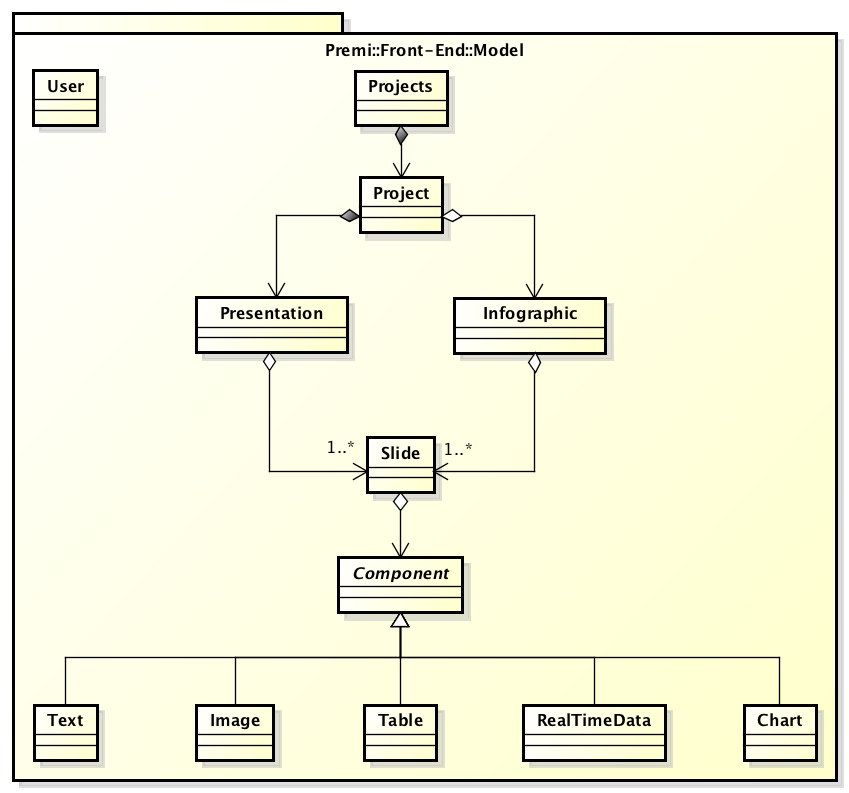
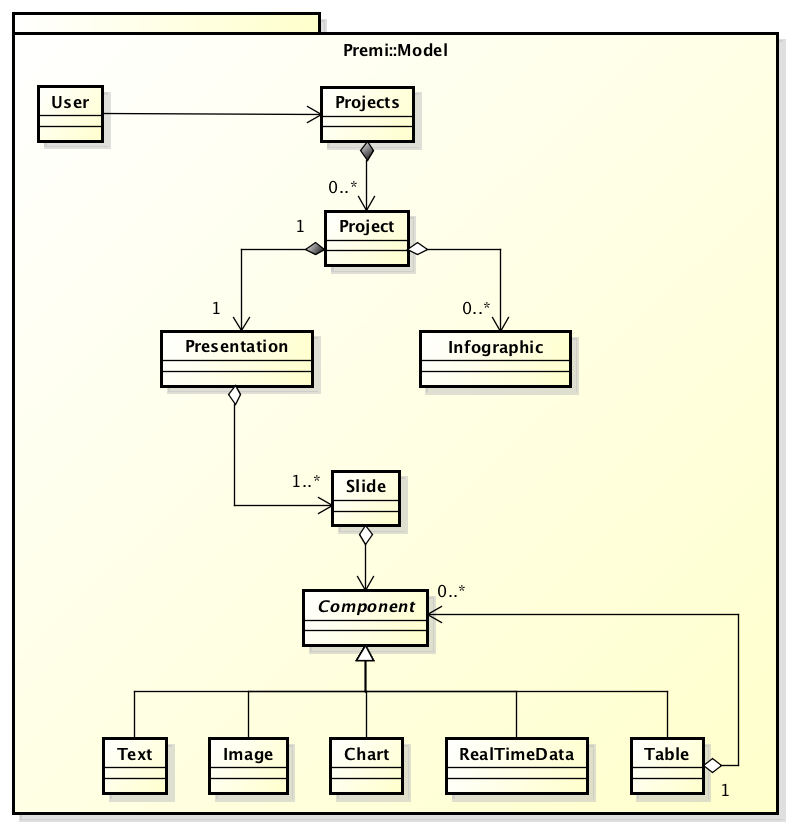
corretta parte frontend

Changed region(s): [[0.0, 0.0303, 1.0, 0.9987]]

diff --git a/esterni/specifica_tecnica/section/front_end_scope.tex b/esterni/specifica_tecnica/section/front_end_scope.tex
@@ -1,134 +1,33 @@
 In AngularJS la variabile \$scope è utilizzata per indicare il contesto in cui vengono salvati i dati di un’applicazione (il model) ed in cui vengono valutate le espressioni utilizzate nella view.
 Per la natura di AngularJS, in cui esiste una stretta correlazione fra view e model, ogni elemento di una view è associato ad un oggetto di scope .
 Sono qui di seguito riportati i principali esempi di oggetti di \$scope.
+
+\paragraph{Variabili di \$scope globali (\$rootScope)}
 \begin{itemize}
+\item \textbf{\$scope.currentProject:}
+\begin{itemize}
+	\item Variabile che contiene le informazioni relative al progetto corrente (idProgetto, idPresentazione, idPrimaSlide).
+\end{itemize}
 
-%     \item \textbf{\$scope.addImage(\textit{path}):}
-%     \begin{itemize}
-%     	\item Funzione con il compito di aggiungere in una posizione di default del canvas un'immagine raggiungibile mediante il percorso "\textit{path}" passato per argomento.
-%     \end{itemize}
-%     
-%     \item \textbf{\$scope.addText(\textit{text}):}
-%     \begin{itemize}
-%     	\item Funzione con il compito di aggiungere in una posizione di default del canvas un oggetto di tipo testuale inizializzato con il valore "\textit{text}" passato per argomento.
-%     \end{itemize}
-%     
-%     \item \textbf{\$scope.availableFonts:}
-%     \begin{itemize}
-%     	\item Variabile che contiene una lista di tutte le tipologie di carattere utilizzabili per gli oggetti di tipo testuale.
-%     \end{itemize}
-%    
-%    \item \textbf{\$scope.canvas:}
-%	\begin{itemize}
-%	      \item Variabile che contiene l'oggetto dalla libreria fabric.js per la gestione di un canvas interattivo.
-%	\end{itemize}
-%	
-%    \item \textbf{\$scope.components:}
-%	\begin{itemize}
-%	      \item Variabile che contiene una lista di tutte le tipologie di oggetti che possono essere inseriti nelle slide.
-%	\end{itemize}
-%	
-%	\item \textbf{\$scope.objectSelected:}
-%	\begin{itemize}
-%		\item Variabile che contiene l'oggetto selezionato all'interno della slide in modalità editor presentazioni. Può assumere il valore  "\textit{group}" per permettere la selezione multipla. 
-%	\end{itemize}
-%	
-%    \item \textbf{\$scope.slidesSVG:}
-%	\begin{itemize}
-%	      \item Variabile che contiene le slides della presentazione in formato SVG, ognuna con le rispettive coordinate x e y.
-%	\end{itemize}
-%	
-%    \item \textbf{\$scope.slidesList:}
-%	\begin{itemize}
-%	      \item Variabile che contiene la lista delle slides di una infografica in modalità editor.\footnote{Un'infografica è costruita a partire da un template.}.
-%	\end{itemize}
-%	
-%    \item \textbf{\$scope.template:}
-%	\begin{itemize}
-%	      \item Variabile che contiene le informazioni di un template di una infografica. La dimesione di un template appartiene ai formati di carta internazionale  epuò accogliere una lista di slide stabilendo i punti in cui andranno a posizionarsi.
-%	\end{itemize}
-%	
-%	\item \textbf{\$scope.toggleBold(\textit{obj}):}
-%	\begin{itemize}
-%		\item Funzione con il compito di impostare la proprietà "grassetto" dell'oggetto "\textit{obj}" passato per argomento.
-%	\end{itemize}
-%	
-%	\item \textbf{\$scope.togglItalic(\textit{obj}):}
-%	\begin{itemize}
-%		\item Funzione con il compito di impostare la proprietà "corsivo" dell'oggetto "\textit{obj}" passato per argomento.
-%	\end{itemize}
-%	
-%	\item \textbf{\$scope.toggleUnderlined(\textit{obj}):}
-%	\begin{itemize}
-%		\item Funzione con il compito di impostare la proprietà "sottolineato" dell'oggetto "\textit{obj}" passato per argomento.
-%	\end{itemize}
-%	
-%	\item \textbf{\$scope.update():}
-%	\begin{itemize}
-%		\item Funzione con il compito di aggiornare il canvas a seguito di un cambiamento nel model.
-%	\end{itemize}
-%	
-%	\item \textbf{\$scope.updateColor(\textit{path}):}
-%	\begin{itemize}
-%		\item Funzione con il compito di aggiornare nel canvas il colore dell'oggetto testuale selezionato a seguito di un aggiornamento del model.
-%	\end{itemize}
+\item \textbf{\$scope.currentSlide:}
+\begin{itemize}
+	\item Variabile che contiene l'id della slide corrente che si sta modificando.
+\end{itemize}
+
+\item \textbf{\$scope.searchViewVisibility:}
+\begin{itemize}
+	\item Variabile che contiene true o false a seconda se è visualizzata la schermata con i risultati di ricerca, oppure no.
+\end{itemize}
+
+\item \textbf{\$scope.user:}
+\begin{itemize}
+	\item Variabile che contiene lo username dell'utente che sta utilizzando il sistema.
+\end{itemize}
+\end{itemize}
 
 
-	\item \textbf{\$scope.addSlide():}
-	\begin{itemize}
-		\item Variabile che contiene la funzione per aggiungere una nuova slide alla presentazione.
-	\end{itemize}
-	
-	\item \textbf{\$scope.changeSlide():}
-	\begin{itemize}
-		\item Variabile che contiene la funzione per spostarsi tra una slide e l'altra.
-	\end{itemize}
-	
-	\item \textbf{\$scope.currentProject:}
-	\begin{itemize}
-		\item Variabile che contiene le informazioni relative al progetto corrente (idProgetto, idPresentazione, idPrimaSlide).
-	\end{itemize}
-	
-	\item \textbf{\$scope.currentSlide:}
-	\begin{itemize}
-		\item Variabile che contiene l'id della slide corrente che si sta modificando.
-	\end{itemize}
-	
-	\item \textbf{\$scope.deleteProject():}
-	\begin{itemize}
-		\item Variabile che contiene la funzione per eliminare un progetto.
-	\end{itemize}
-	
-	\item \textbf{\$scope.deleteSlide():}
-	\begin{itemize}
-		\item Variabile che contiene la funzione per cancellare la slide corrente.
-	\end{itemize}
-	
-	\item \textbf{\$scope.editProject():}
-	\begin{itemize}
-		\item Variabile che contiene la funzione per aprire l'editor del progetto.
-	\end{itemize}
-	
-	\item \textbf{\$scope.findProjectById():}
-	\begin{itemize}
-		\item Variabile che contiene la funzione per caricare il progetto tramite il suo id.
-	\end{itemize}
-	
-	\item \textbf{\$scope.getIdSlide():}
-	\begin{itemize}
-		\item Variabile che contiene la funzione per recuperare l'id della slide dalle coordinate x e y.
-	\end{itemize}
-	
-	\item \textbf{\$scope.home:}
-	\begin{itemize}
-		\item Variabile che contiene true o false a seconda se è visualizzata la schermata home, oppure no.
-	\end{itemize}
-	
-	\item \textbf{\$scope.loadSlide():}
-	\begin{itemize}
-		\item Variabile che contiene la funzione per caricare la slide dal backend attraverso il suo id.
-	\end{itemize}
-	
+\paragraph{Variabili di \$scope di AuthenticationCtrl}
+\begin{itemize}
 	\item \textbf{\$scope.login():}
 	\begin{itemize}
 		\item Variabile che contiene la funzione per permettere il login di un utente.
@@ -139,64 +38,118 @@ Sono qui di seguito riportati i principali esempi di oggetti di \$scope.
 		\item Variabile che contiene la funzione per permettere il logout di un utente.
 	\end{itemize}
 	
-	\item \textbf{\$scope.newProject():}
-	\begin{itemize}
-		\item Variabile che contiene la funzione per creare un nuovo progetto.
-	\end{itemize}
-
-	\item \textbf{\$scope.refreshProjects():}
-	\begin{itemize}
-		\item Variabile che contiene la funzione per caricare i dati principali dei progetti salvati di un utente.
-	\end{itemize}
-	
 	\item \textbf{\$scope.resetPassword():}
 	\begin{itemize}
 		\item Variabile che contiene la funzione per fare il reset della password di accesso.
-	\end{itemize}
-	
-	\item \textbf{\$scope.restrictedArea:}
-	\begin{itemize}
-		\item Variabile che contiene la pagina dell'area riservata correntemente attiva.
-	\end{itemize}
-	
-	\item \textbf{\$scope.saveSlide():}
-	\begin{itemize}
-		\item Variabile che contiene la funzione per creare una slide vuota e salvarla nel backend.
-	\end{itemize}
-	
-	\item \textbf{\$scope.searc():}
-	\begin{itemize}
-		\item Variabile che contiene la funzione per la ricerca di un utente o di un progetto.
-	\end{itemize}
-	
-	\item \textbf{\$scope.searchViewVisibility:}
-	\begin{itemize}
-		\item Variabile che contiene true o false a seconda se è visualizzata la schermata con i risultati di ricerca, oppure no.
-	\end{itemize}
-	
-	\item \textbf{\$scope.setCurrentProject():}
-	\begin{itemize}
-		\item Variabile che contiene la funzione per impostare il progetto corrente, con tutte le sue informazioni.
 	\end{itemize}
 	
 	\item \textbf{\$scope.signIn():}
 	\begin{itemize}
 		\item Variabile che contiene la funzione per permettere la registrazione di un utente.
 	\end{itemize}
+\end{itemize}
+
+
+\paragraph{Variabili di \$scope di HomePage}
+\begin{itemize}
+	\item \textbf{\$scope.findProjectById():}
+	\begin{itemize}
+		\item Variabile che contiene la funzione per caricare il progetto tramite il suo id.
+	\end{itemize}
 	
+	\item \textbf{\$scope.home:}
+	\begin{itemize}
+		\item Variabile che contiene true o false a seconda se è visualizzata la schermata home, oppure no.
+	\end{itemize}
+	
+	\item \textbf{\$scope.search():}
+	\begin{itemize}
+		\item Variabile che contiene la funzione per la ricerca di un utente o di un progetto.
+	\end{itemize}
+\end{itemize}
+
+
+\paragraph{Variabili di \$scope di MyAccountCtrl}
+\begin{itemize}
+	\item \textbf{\$scope.restrictedArea:}
+	\begin{itemize}
+		\item Variabile che contiene la pagina dell'area riservata correntemente attiva.
+	\end{itemize}
+\end{itemize}
+
+
+\paragraph{Variabili di \$scope di PresentationCtrl}
+\begin{itemize}
+	\item \textbf{\$scope.addSlide():}
+	\begin{itemize}
+		\item Variabile che contiene la funzione per aggiungere una nuova slide alla presentazione.
+	\end{itemize}
+	
+	\item \textbf{\$scope.changeSlide():}
+	\begin{itemize}
+		\item Variabile che contiene la funzione per spostarsi tra una slide e l'altra.
+	\end{itemize}
+	
+	\item \textbf{\$scope.deleteSlide():}
+	\begin{itemize}
+		\item Variabile che contiene la funzione per cancellare la slide corrente.
+	\end{itemize}
+	
+	\item \textbf{\$scope.getIdSlide():}
+	\begin{itemize}
+		\item Variabile che contiene la funzione per recuperare l'id della slide dalle coordinate x e y.
+	\end{itemize}
+	
+	\item \textbf{\$scope.loadSlide():}
+	\begin{itemize}
+		\item Variabile che contiene la funzione per caricare la slide dal backend attraverso il suo id.
+	\end{itemize}
+		
+	\item \textbf{\$scope.saveSlide():}
+	\begin{itemize}
+		\item Variabile che contiene la funzione per creare una slide vuota e salvarla nel backend.
+	\end{itemize}
+\end{itemize}
+
+
+\paragraph{Variabili di \$scope di ProjectsCtrl}
+\begin{itemize}
+	\item \textbf{\$scope.deleteProject():}
+	\begin{itemize}
+		\item Variabile che contiene la funzione per eliminare un progetto.
+	\end{itemize}
+
+	\item \textbf{\$scope.editProject():}
+	\begin{itemize}
+		\item Variabile che contiene la funzione per aprire l'editor del progetto.
+	\end{itemize}
+	
+	\item \textbf{\$scope.newProject():}
+	\begin{itemize}
+		\item Variabile che contiene la funzione per creare un nuovo progetto.
+	\end{itemize}
+	
+	\item \textbf{\$scope.refreshProjects():}
+	\begin{itemize}
+		\item Variabile che contiene la funzione per caricare i dati principali dei progetti salvati di un utente.
+	\end{itemize}
+	
+	\item \textbf{\$scope.setCurrentProject():}
+	\begin{itemize}
+		\item Variabile che contiene la funzione per impostare il progetto corrente, con tutte le sue informazioni.
+	\end{itemize}
+\end{itemize}
+
+
+\paragraph{Variabili di \$scope di SlideEditorCtrl}
+\begin{itemize}
 	\item \textbf{\$scope.updateSlide():}
 	\begin{itemize}
 		\item Variabile che contiene la funzione per salvare una slide modificata nel backend.
-	\end{itemize}
-	
-	\item \textbf{\$scope.user:}
-	\begin{itemize}
-		\item Variabile che contiene lo username dell'utente che sta utilizzando il sistema.
 	\end{itemize}
 	
 	\item \textbf{\$scope.zoomCanvas():}
 	\begin{itemize}
 		\item Variabile che contiene la funzione per gestire lo zoom del canvas nel ridimensionamento della finestra del browser.
 	\end{itemize}
-	
 \end{itemize}

diff --git a/esterni/specifica_tecnica/section/front_end_directives.tex b/esterni/specifica_tecnica/section/front_end_directives.tex
@@ -75,29 +75,9 @@
 		\end{itemize}
 	\end{itemize}
 
-    \item Premi::Front-End::Directives::SlideEditorPanel:
-	\begin{itemize}
-		\item \textbf{Descrizione}: classe per la gestione della componente grafica relativa al pannello di modifica di un componente durante la modifica di una slide e del rispettivo controller. Dà accesso alle proprietà di ogni componente;
-		\item \textbf{Relazioni con altre classi}:
-		\begin{itemize}
-			\item Premi::Front-End::Controllers::SlideEditorController;
-			\item Premi::Front-End::Views::SlideEditorPanelView.
-		\end{itemize}
-	\end{itemize}
-
-    \item Premi::Front-End::Directives::Infographic:
-	\begin{itemize}
-		\item \textbf{Descrizione}: classe per la gestione della componente grafica relativa alla visualizzazione di un'\gls{infografica} e del rispettivo controller. Permette di accedere al tool di modifica dell'\gls{infografica};
-		\item \textbf{Relazioni con altre classi}:
-		\begin{itemize}
-			\item Premi::Front-End::Controllers::InfographicEditorController;
-			\item Premi::Front-End::Views::InfographicView.
-		\end{itemize}
-	\end{itemize}
-
     \item Premi::Front-End::Directives::InfographicEditor:
 	\begin{itemize}
-		\item \textbf{Descrizione}: classe per la gestione della componente grafica relativa alla creazione e modifica di un'\gls{infografica} e del rispettivo controller;
+		\item \textbf{Descrizione}: classe per la gestione della componente grafica relativa alla visualizzazione, creazione e modifica di un'\gls{infografica} e del rispettivo controller;
 		\item \textbf{Relazioni con altre classi}:
 		\begin{itemize}
 			\item Premi::Front-End::Controllers::InfographicEditorController;

diff --git a/esterni/specifica_tecnica/section/descrizione_architettura.tex b/esterni/specifica_tecnica/section/descrizione_architettura.tex
@@ -12,8 +12,8 @@ Attraverso la seguente figura presenteremo i tier dell'architettura adattati al 
 	\caption[Architettura generale del sistema]{Architettura generale del sistema}
 \end{figure}
 
-\textbf{Presentation-Tier}: contiene il \gls{front-end} dell'applicazione, che si occupa della presentazione dei dati all'utente. Funge da interfaccia tra l'utente e il \gls{back-end}, interagendo con il tier sottostante.
+\textbf{FrontEnd-Tier}: contiene il \gls{front-end} dell'applicazione, che si occupa della presentazione dei dati all'utente e che sarà sviluppato seguendo il pattern MVVM (Model View View Model) consigliato dall'utilizzo di AngularJS. Funge da interfaccia tra l'utente e il \gls{back-end}, interagendo con il tier sottostante.
 
-\textbf{Logic-Tier}: contiene il \gls{back-end} dell'applicazione. Comunica con il livello superiore elaborando le richieste generate da esso e recuperando i dati dal livello inferiore. 
+\textbf{BackEnd-Tier}: contiene il \gls{back-end} dell'applicazione. Comunica con il livello superiore elaborando le richieste generate da esso e recuperando i dati dal livello inferiore. È a sua volta strutturato seguendo l'archiettura three-tier.
 
-\textbf{Data-tier}: questo livello è costituito dal \gls{database} dell'applicazione ed è dove vengono memorizzate e recuperate le informazioni. Nel nostro caso il \gls{database} è di tipo non relazionale.
+\textbf{Server-tier}: questo livello è costituito dal \gls{database} dell'applicazione ed è dove vengono memorizzate e recuperate le informazioni. Nel nostro caso il \gls{database} è di tipo non relazionale.

diff --git a/esterni/specifica_tecnica/section/front_end_model.tex b/esterni/specifica_tecnica/section/front_end_model.tex
@@ -11,7 +11,7 @@
 		\item Vi è un'interazione con il package Premi::Front-End::Services responsabile del recupero e salvataggio delle informazioni e dell'invocazione di precise procedure dall'esterno mediante chiamate REST;
 		\item Vi è un'interazione con il package Premi::Front-End::Controller necessaria per far comunicare il model con le view;
 		\item Vi è un'interazione con il package Premi::Front-End::Views necessaria per fornire i dati da far visualizzare all'utente;
-		\item Vi è in'interazione con il package Premi::Front-End::Directives responsabile nel collegamento tra le view e i controller del package.
+		\item Vi è un'interazione con il package Premi::Front-End::Directives responsabile nel collegamento tra le view e i controller del package.
 	\end{itemize}
 \end{itemize}
 
